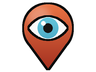
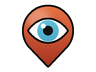
Refactor arrow dimensions and add customizable arrow size option

Changed region(s): [[0.2188, 0.0278, 0.7812, 1.0]]

diff --git a/scripts/make_art.py b/scripts/make_art.py
@@ -141,7 +141,16 @@ def vertical_gradient(size, top, bottom):
 
 
 def grow(mask, px):
-    return mask.filter(ImageFilter.MaxFilter(px * 2 + 1))
+    """Round dilation (a disk, not a square): a square kernel turns the outline round a sharp
+    tip into a flat, boxy end."""
+    out = mask.copy()
+    steps = max(24, px * 6)
+    for i in range(steps):
+        angle = 2 * math.pi * i / steps
+        for radius in (px, px * 0.5):
+            dx, dy = round(math.cos(angle) * radius), round(math.sin(angle) * radius)
+            out = ImageChops.lighter(out, ImageChops.offset(mask, dx, dy))
+    return out
 
 
 def solid(size, colour):
@@ -155,11 +164,12 @@ def sidebar_icon(size, state):
     w, h = size * SS, int(size * 0.75) * SS
     full = (w, h)
     img = Image.new("RGBA", full, (0, 0, 0, 0))
-    u = h / 100.0
     cx = w / 2
-    r = 33 * u
-    cy = 6 * u + r
-    tip = 95 * u
+    stroke = max(SS, round(size * SS / 56))
+    pad = stroke * 2 + SS * 3
+    top, tip = pad, h - pad
+    r = 0.41 * (tip - top)
+    cy = top + r
 
     mask = Image.new("L", full, 0)
     d = ImageDraw.Draw(mask)
@@ -168,7 +178,6 @@ def sidebar_icon(size, state):
     d.polygon([(cx - r * math.cos(angle), cy + r * math.sin(angle)),
                (cx + r * math.cos(angle), cy + r * math.sin(angle)), (cx, tip)], fill=255)
 
-    stroke = max(SS, round(size * SS / 56))
     img.paste(solid(full, (255, 255, 255, 255)), (0, 0), grow(mask, stroke * 2))
     img.paste(solid(full, (12, 12, 12, 255)), (0, 0), grow(mask, stroke))
     if on:

diff --git a/CLAUDE.md b/CLAUDE.md
@@ -91,7 +91,9 @@ listed under "To verify".
   name prefix, then substring, then item tag paths), so names follow the player's language. Matching is a job
   (`window:match:<n>`) that publishes the best 40 so far every 150 ms; the `find` goes 300 ms after the final list
   changes; rows are rebuilt (`rebuildRows`, no matching) on every find part and scope change; the summary is refreshed
-  every 15 s. A spinner (8 dots of `media/ui/circle.png` in the arrow colour) shows while matching, a find is due or the
+  every 15 s. Place rows are taller than item rows (`PLACE_ROW` = row + 8 px) so their iso arrow can be big: drawn in a
+  column 1.7 rows wide, one world unit long at 0.95 of the row height (a diagonal is ~1.3 rows wide), 0.6 wide, with
+  `drawTextureAllPoint` in absolute coordinates. A spinner (8 dots of `media/ui/circle.png` in the arrow colour) shows while matching, a find is due or the
   server has not finished. Scopes: Everywhere, This building (same
   building def), Nearby (30 tiles), On me (live walk of the inventory, no server). Rows: item header (icon, count) and
   places (iso mini arrow, label, distance, floors, age, count). Buttons: Show, Go there, Take (enabled only when the
@@ -111,7 +113,9 @@ listed under "To verify".
   placed from `adminBtn` / the lowest button. Icon `media/ui/Sidebar/<w>/TienLastSeenWhere_Off|On_<w>.png` by the
   Inventory button's width (48/64/80/96/128; vanilla rebuilds the sidebar when its size option changes), On while the
   window is open. Hidden in the tutorial. The icon is our own drawing (`sidebar_icon` in `scripts/make_art.py`: a map
-  pin with an eye, grey Off / orange-red with a blue iris On, outlined like the game's icons: a thin white line outside a black one, no shadow), not
+  pin with an eye, grey Off / orange-red with a blue iris On, outlined like the game's icons: a thin white line outside a black one, no shadow; the pin is sized so the whole outline stays 3 px of the 4x
+  supersampled canvas inside the image, since outline pixels past the edge were cut off in game; the outlines are a
+  round dilation, because a square `MaxFilter` made the outline round the pin's tip flat and boxy), not
   built from vanilla sidebar icons, which would repeat the Inventory and Search buttons right next to it.
 - `client/TienLastSeenWhere_Debug.lua`: with `-debug`, a world context submenu to aim the arrow at a square or remove it.
 - `media/sandbox-options.txt`: `SearchRule` (enum 5, default 1), `FloorRule` (enum 3: in sight / in reach / off),
@@ -121,7 +125,8 @@ listed under "To verify".
 
 - `Arrow.SetTarget(playerNum, place, fullType)` (Show, Go there, double-click; a second call for the same place keeps
   the current target instead of restarting it), `Arrow.Clear`, `Arrow.GetTarget`.
-- Geometry in world tiles from the player's exact position: start 0.6, length 1.6, half width 0.4; the four corners are
+- Geometry in world tiles from the player's exact position: start 0.5, length 1.0, half width 0.25, length and width
+  times the player's "Arrow size" mod option (50-200 %, default 100); the four corners are
   projected with `isoToScreenX/Y` and drawn with `getRenderer():renderPoly` in `OnPreUIDraw`, so it lies flat like a
   floor tile but is drawn over characters and walls. The first version drew it in `OnPostFloorLayerDraw`, which the
   B42 renderer (`FBORenderCell`) never fires: no arrow in game.
@@ -130,7 +135,10 @@ listed under "To verify".
   arrow colour: the container's object, the corpse, the vehicle, a bag's world item (or the object holding it), or for a
   floor place the world items of that type on the square. Objects are looked up again every second (the chunk may load
   later) and the highlight is re-applied every frame (the loot window clears highlights when the mouse leaves its
-  buttons).
+  buttons). Once the loot window shows the place (its selected container's parent is one of our objects, or for a floor
+  place it shows the Floor within reach of the square), the target counts as found: our highlight stops for good and
+  the object vanilla now highlights is left alone. Both writing `setHighlighted`/`setHighlightColor` on the same object
+  in different colours made it flicker.
 - Another floor: `Route.Waypoint` scans 40 tiles for staircases on the player's level (going up: bottom squares) or the level
   below (going down: top squares), picks the lowest (player → entry) + (exit → target), and the arrow aims at the entry,
   re-evaluated every second and when the level changes. No staircase: faded arrow straight at the target. A "1 up" /
